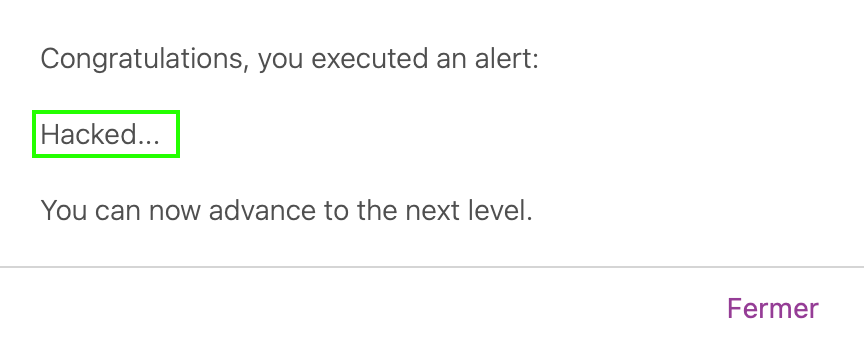
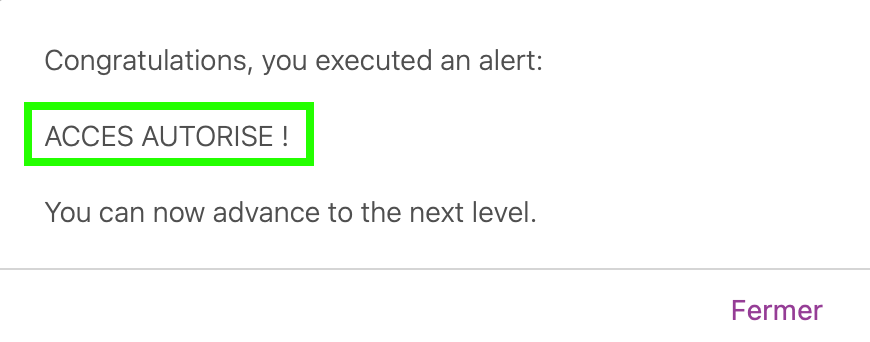
Update files

diff --git a/appspot_com/niveau_3/README.md b/appspot_com/niveau_3/README.md
@@ -78,7 +78,7 @@ Mais avant, nous allons essayer de comprendre un peu la logique de l'application
 Dans la mesure où l'attribut `onerror` a bien fonctionné dans l'exercice précédent, nous allons le réutiliser dans l'URL:
 
 ```
-https://xss-game.appspot.com/level3/frame#3' onerror='alert("Hacked...")';
+https://xss-game.appspot.com/level3/frame#3' onerror='alert("ACCES AUTORISE !")';
 ```
 
 <div align="center">
